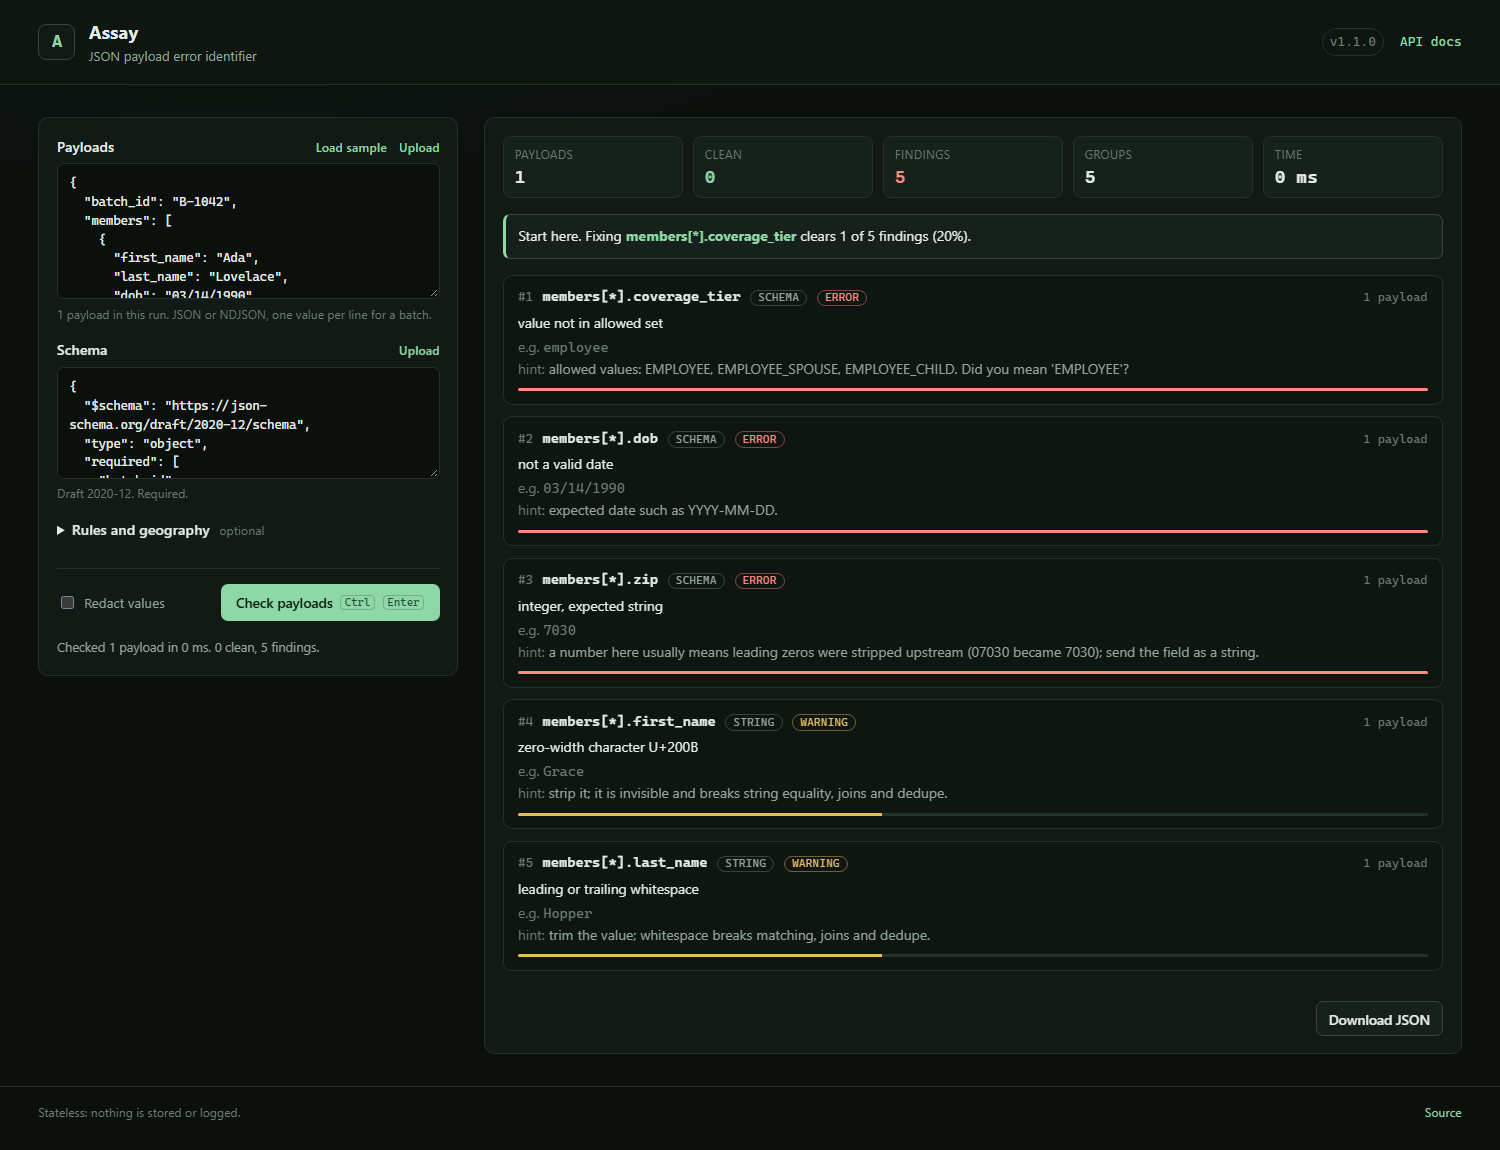
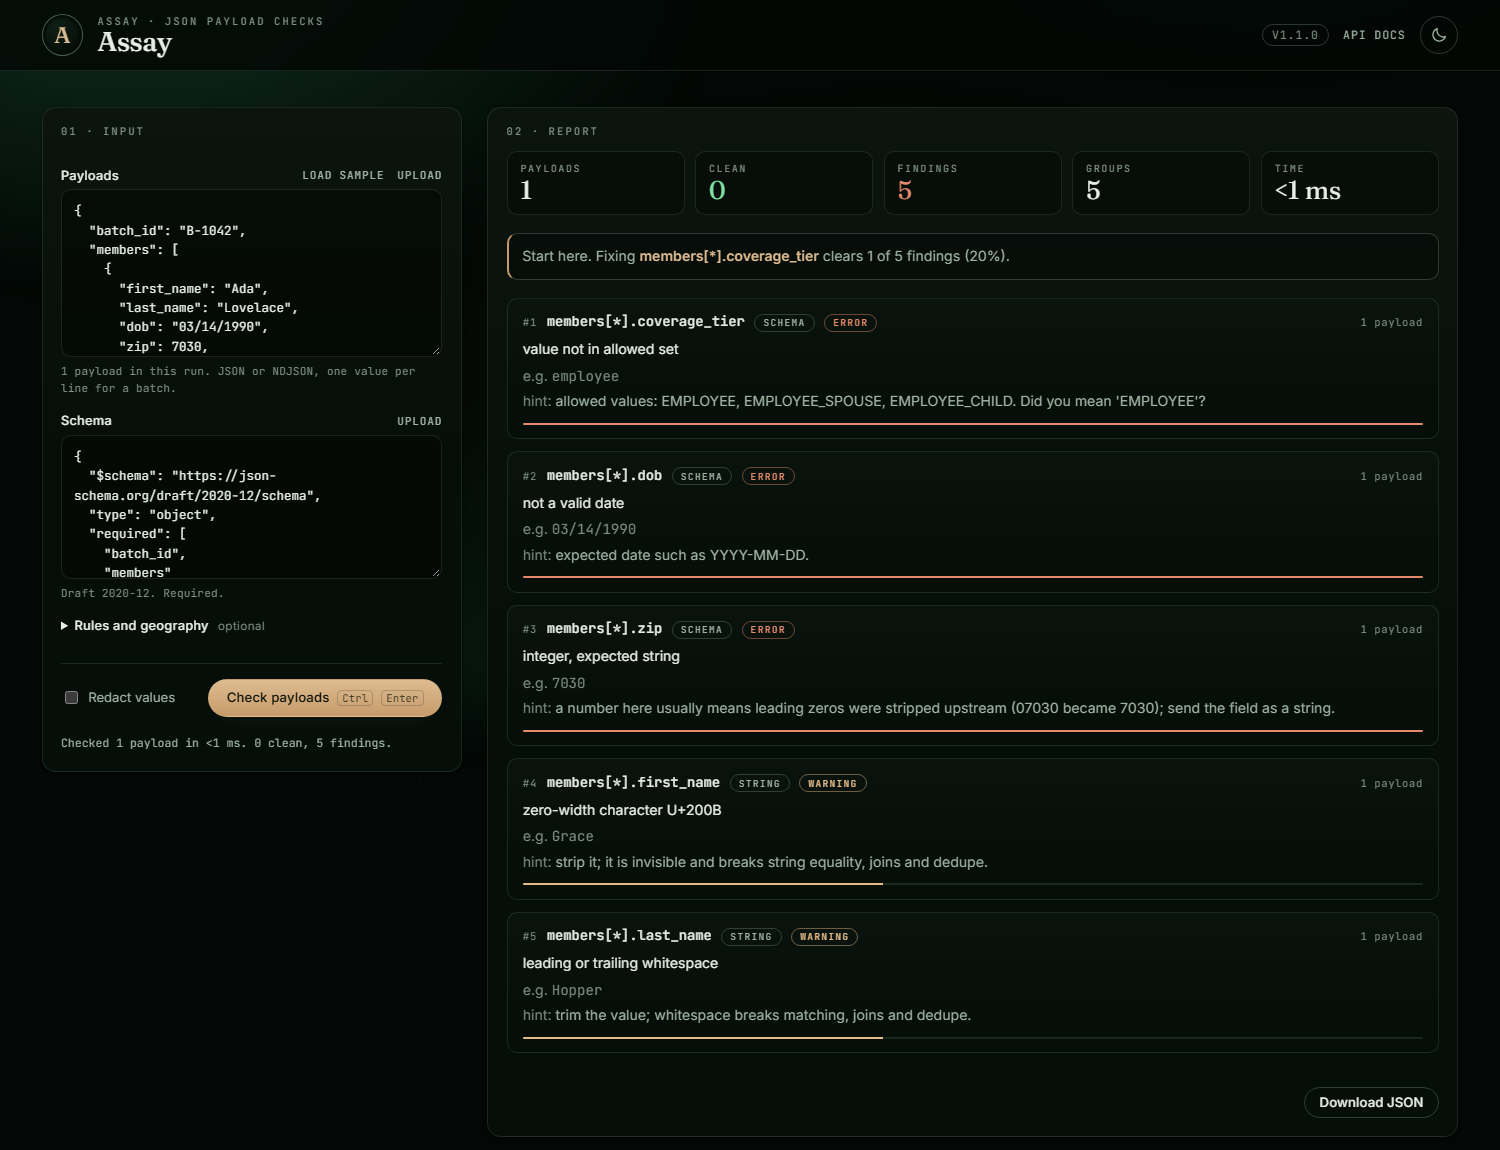
docs(ui): themed screenshots and 1.2.0 changelog

diff --git a/README.md b/README.md
@@ -6,14 +6,16 @@
 > every error at once, pins each finding to a path, and groups the findings by root cause.
 > You fix one mapping instead of reading 4,000 identical failures.
 
-**Status: v1.1. Milestones M1–M7 are built and tested.** Syntax, schema, setup rules,
+**Status: v1.2. Milestones M1–M7 are built and tested.** Syntax, schema, setup rules,
 string quality, offline geography, USPS verification (opt-in), redaction, HTML/SARIF
 reports, a web UI, an HTTP API, and a Docker image. The Switchyard validation
 stage (M8) lives in the separate **Switchyard** project: signed ingest, routing, retries,
 and a DLQ that stores Assay's grouped report. This README covers only what runs in this
 repository.
 
-![Assay web UI](docs/ui.png)
+![Assay web UI at night](docs/ui.png)
+
+The masthead toggle switches to a warm parchment day scheme and remembers the choice.
 
 ## The 2,000-payload demo
 
@@ -239,6 +241,11 @@ curl -s localhost:8000/assay -H 'content-type: application/json' -d '{
 
 `GET /health` returns the version. The service is stateless and writes nothing. Batches
 are capped at 2,000 payloads and 10 MB per request.
+
+The interface has two schemes: a near-black forest night and a warm parchment day,
+toggled in the masthead and remembered in `localStorage`. Type is self-hosted:
+Fraunces for display, Inter for UI and JetBrains Mono for paths and values. There are no
+external assets and no CDN.
 
 ### Docker
 
@@ -488,6 +495,7 @@ src/assay/
   api.py         FastAPI app: the web UI routes, batch endpoint and single-payload API
   templates/     the HTML shell for the web UI
   static/        the UI stylesheet and script, served from /static
+  static/fonts/  self-hosted Fraunces, Inter and JetBrains Mono, with OFL licenses
   cli.py         Typer app and the exit-code contract
 ARCHITECTURE.md  the full design; unbuilt sections are marked planned
 NOTICE.md        attribution for the bundled GeoNames and Census data

diff --git a/CHANGELOG.md b/CHANGELOG.md
@@ -4,6 +4,28 @@ All notable changes to Assay are recorded here. The format follows
 [Keep a Changelog](https://keepachangelog.com/en/1.1.0/), and the project uses
 [Semantic Versioning](https://semver.org/).
 
+## [1.2.0] - 2026-11-26
+
+### Changed
+
+- **New visual system.** The UI now matches the rest of the tooling: near-black forest
+  night and warm parchment day, bronze as the only functional accent, a green aurora
+  atmosphere, and serif display type. Tokens cover both schemes, so no component needs a
+  second rule set.
+- Masthead rebuilt with a monogram, an eyebrow label and a sun/moon toggle. The choice is
+  applied before paint by an inline script, persisted in `localStorage`, and reflected in
+  `<meta name="theme-color">`.
+- Panels, stat cards, group cards, chips, inputs and buttons restyled. Report groups rise
+  in with a short stagger; `prefers-reduced-motion` disables it. The input column sticks
+  on desktop so the report can scroll on its own.
+- The status line now reads `<1 ms` instead of `0 ms` for fast runs.
+
+### Added
+
+- Self-hosted variable fonts: Fraunces, Inter and JetBrains Mono, with their SIL Open
+  Font License files, in `static/fonts`. No external asset or CDN.
+- A `?theme=day` preview parameter and a `?still=1` capture mode that disables motion.
+
 ## [1.1.0] - 2026-11-26
 
 ### Added
